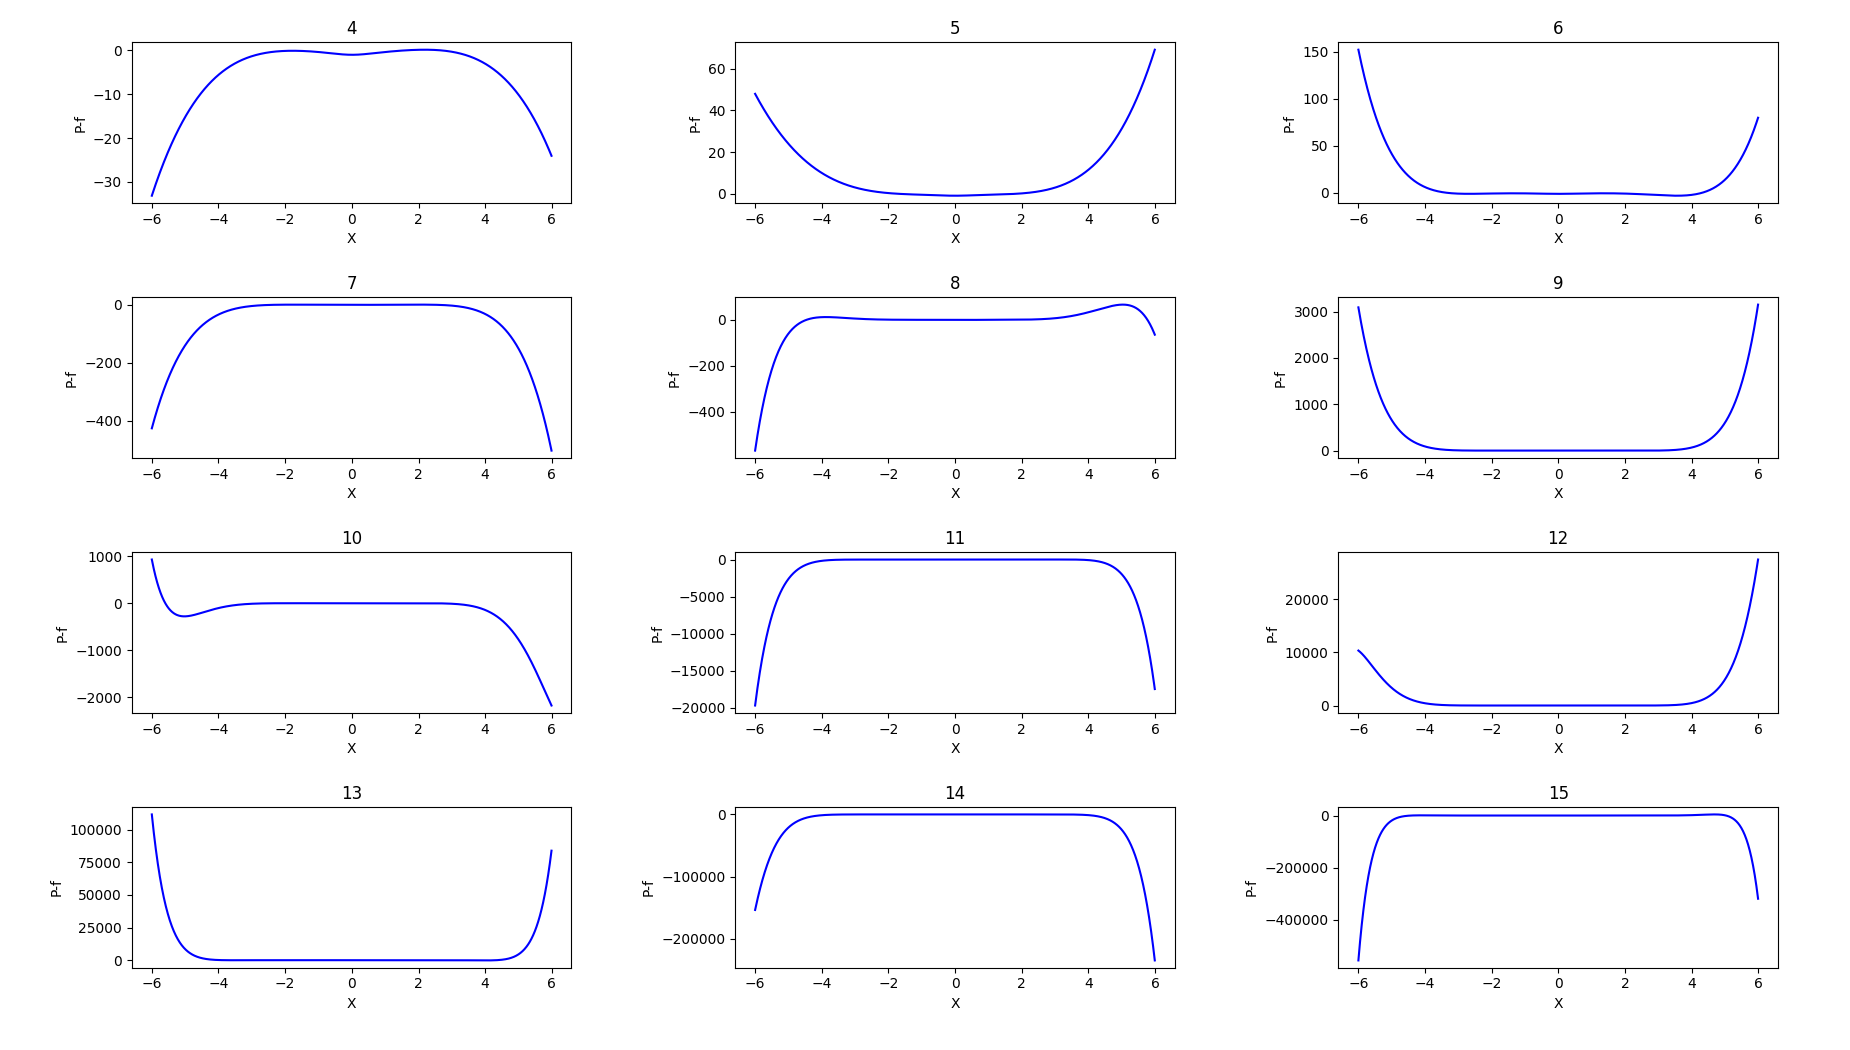
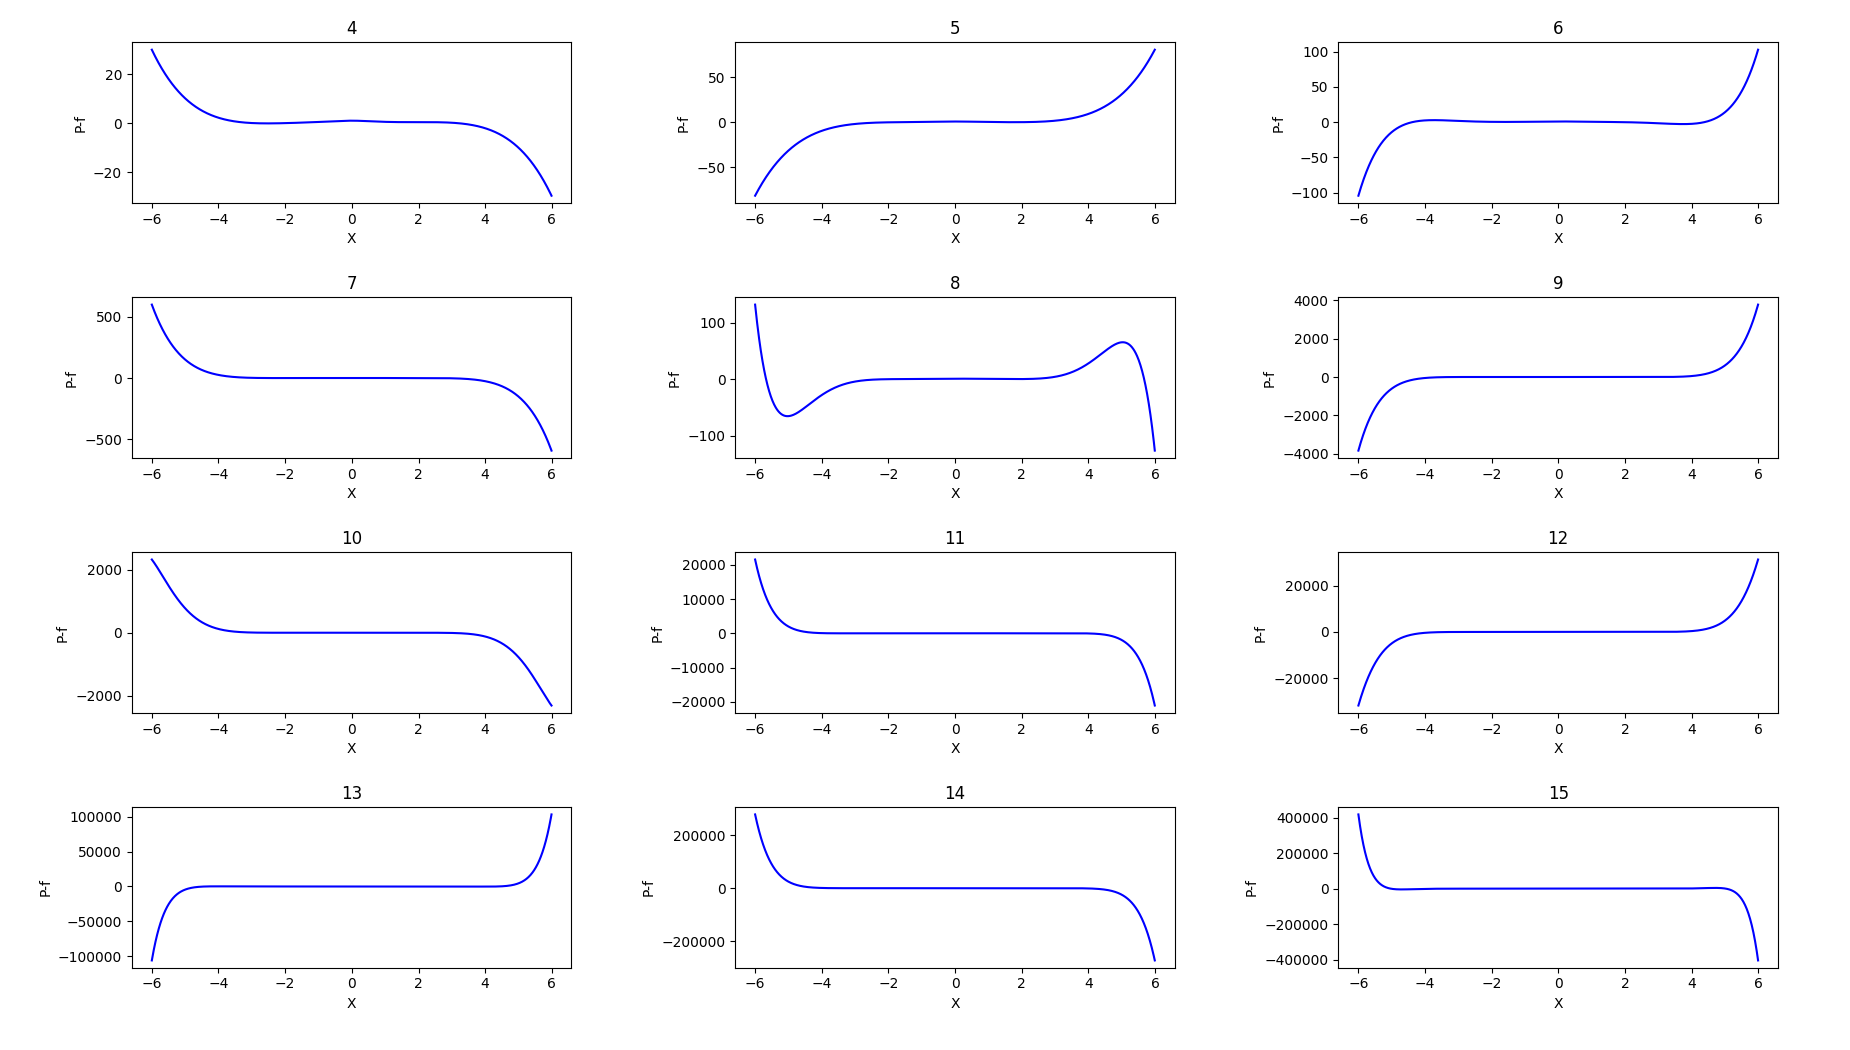
fixed lagrange and newtowns polymons

diff --git a/task5.py b/task5.py
@@ -35,8 +35,35 @@ def divided_dif(x_points, y_points, n):
 def newtown(x_points, y_points, x, n):
     factors = divided_dif(x_points, y_points, n)
     pn = factors[n-1]
-    for i in range(1, n+1):
+    for i in range(1, n-1):
         pn = factors[n-i] + (x - x_points[n-i]) * pn
+    return pn
+
+
+def div_dif(x_points, y_points, n):
+
+    """
+    y(x_1, x_2, ..., x_n) = SUM(i=1; n){y(x_i)/П(x_i-x_j)}
+    """
+    div_difs = [y_points[0]]
+    for i in range(1, n):
+        summ = 0.
+        for j in range(i+1):
+            frac = 1.
+            for k in range(i+1):
+                if k != j:
+                    frac *= (x_points[j] - x_points[k])
+            summ += y_points[j] / frac
+        div_difs.append(summ)
+
+    return div_difs
+
+
+def newtown_ext(x_points, y_points, x, n):
+    factors = div_dif(x_points, y_points, n)
+    pn = factors[n-1]
+    for i in range(n):
+        pn = factors[n-1-i] + (x - x_points[n-1-i]) * pn
     return pn
 
 
@@ -52,26 +79,18 @@ def lagrange_factors(x_points: list, n: int) -> list:
     return factors
 
 
-
 def Lagrange(x_points, y_points, x, n) -> float:
 
     factors = lagrange_factors(x_points, n)
     polynom = 0
     for i in range(n):
         phi = 1.
+
         for j in range(n):
             phi *= (x - x_points[i])
+
         polynom += phi * y_points[i] / factors[i]
     return polynom
-
-
-
-# def newtown(x_points, y_points, x, n):
-#     factors = divided_dif(x_points, y_points, n+1)
-#     pn = factors[n]
-#     for i in range(1, n+1):
-#         pn = factors[n-i] + (x - x_points[n-i]) * pn
-#     return pn
 
 
 def run():
@@ -79,20 +98,23 @@ def run():
     plt.tight_layout(pad=1, h_pad=1, w_pad=1)
     for n in range(4, 16, 1):  #до 16-ти
         x_points, y_points = [], []
-        for k in range(n):
+        for k in range(n+1):
             x_points.append(f_x(k, n))
             y_points.append(f_y(x_points[k]))
             #print(n, len(x_points), len(y_points))
-        x = np.arange(-6., 6., 0.01)
+        x = np.arange(-5., 5., 0.01)
         polynom = []
+        f_s = []
         for i in range(len(x)):
             f = f_y(x[i])
-            p = newtown(x_points, y_points, x[i], n)
+            f_s.append(f)
+            p = newtown_ext(x_points, y_points, x[i], n+1)
             polynom.append(p-f)
         axs[(n-4)//3, (n-4) % 3].plot(x, polynom, color='blue')
         axs[(n-4)//3, (n-4) % 3].set(xlabel='X')
         axs[(n-4)//3, (n-4) % 3].set(ylabel='P-f')
         axs[(n - 4) // 3, (n - 4) % 3].set(title=str(n))
+        print(f_s)
 
     fig.set_size_inches(18.5, 10.5)
     plt.savefig('task5.png')
@@ -102,16 +124,19 @@ def run_lagrange():
     plt.tight_layout(pad=1, h_pad=1, w_pad=1)
     for n in range(4, 16, 1):  #до 16-ти
         x_points, y_points = [], []
-        for k in range(n):
+        for k in range(n+1):
             x_points.append(f_x(k, n))
             y_points.append(f_y(x_points[k]))
             #print(n, len(x_points), len(y_points))
         x = np.arange(-6., 6., 0.01)
         polynom = []
+        f_points, p_points = [], []
         for i in range(len(x)):
             f = f_y(x[i])
-            p = Lagrange(x_points, y_points, x[i], n)
-            polynom.append(p-f)
+
+            p = Lagrange(x_points, y_points, x[i], n+1)
+
+            polynom.append(f - p)
         axs[(n-4)//3, (n-4) % 3].plot(x, polynom, color='blue')
         axs[(n-4)//3, (n-4) % 3].set(xlabel='X')
         axs[(n-4)//3, (n-4) % 3].set(ylabel='P-f')
@@ -119,3 +144,34 @@ def run_lagrange():
 
     fig.set_size_inches(18.5, 10.5)
     plt.savefig('task5_lagrange.png')
+
+
+def run_lagrange_two_plots():
+    fig, axs = plt.subplots(nrows=4, ncols=3)
+    plt.tight_layout(pad=1, h_pad=1, w_pad=1)
+    for n in range(4, 16, 1):  # до 16-ти
+        x_points, y_points = [], []
+        for k in range(n+1):
+            x_points.append(f_x(k, n))
+            y_points.append(f_y(x_points[k]))
+            # print(n, len(x_points), len(y_points))
+        x = np.arange(-6., 6., 0.01)
+        polynom = []
+        f_points, p_points = [], []
+        for i in range(len(x)):
+            f = f_y(x[i])
+            f_points.append(f)
+
+            p = Lagrange(x_points, y_points, x[i], n+1)
+            p_points.append(p)
+
+            print(f, p)
+
+        axs[(n - 4) // 3, (n - 4) % 3].plot(x, f_points, color='blue')
+        axs[(n - 4) // 3, (n - 4) % 3].plot(x, p_points, color='red')
+        axs[(n - 4) // 3, (n - 4) % 3].set(xlabel='X')
+        axs[(n - 4) // 3, (n - 4) % 3].set(ylabel='P-f')
+        axs[(n - 4) // 3, (n - 4) % 3].set(title=str(n))
+
+    fig.set_size_inches(18.5, 10.5)
+    plt.savefig('task5_two_func.png')
